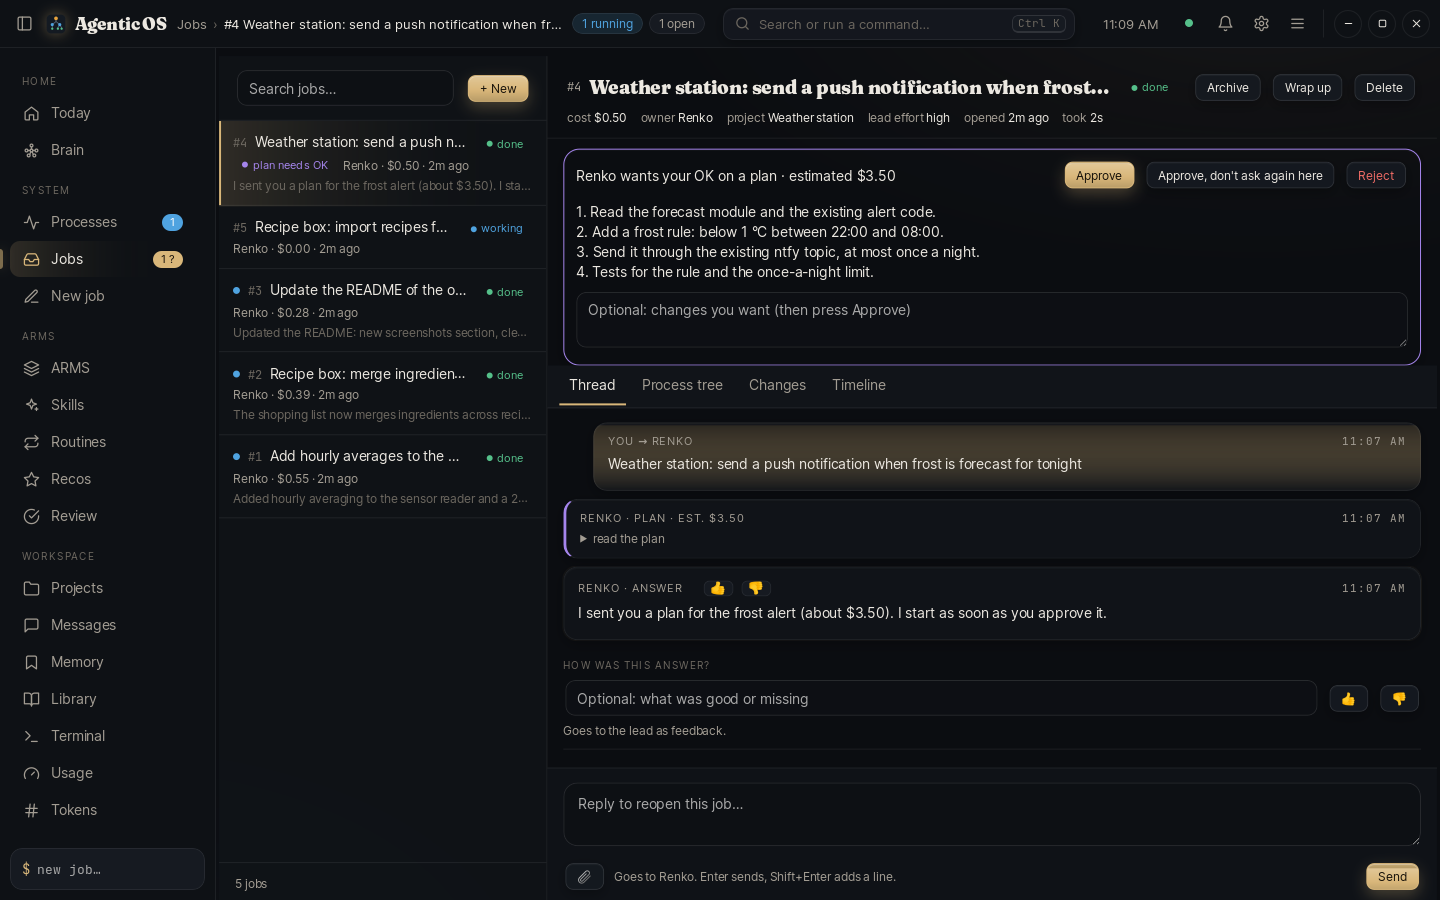
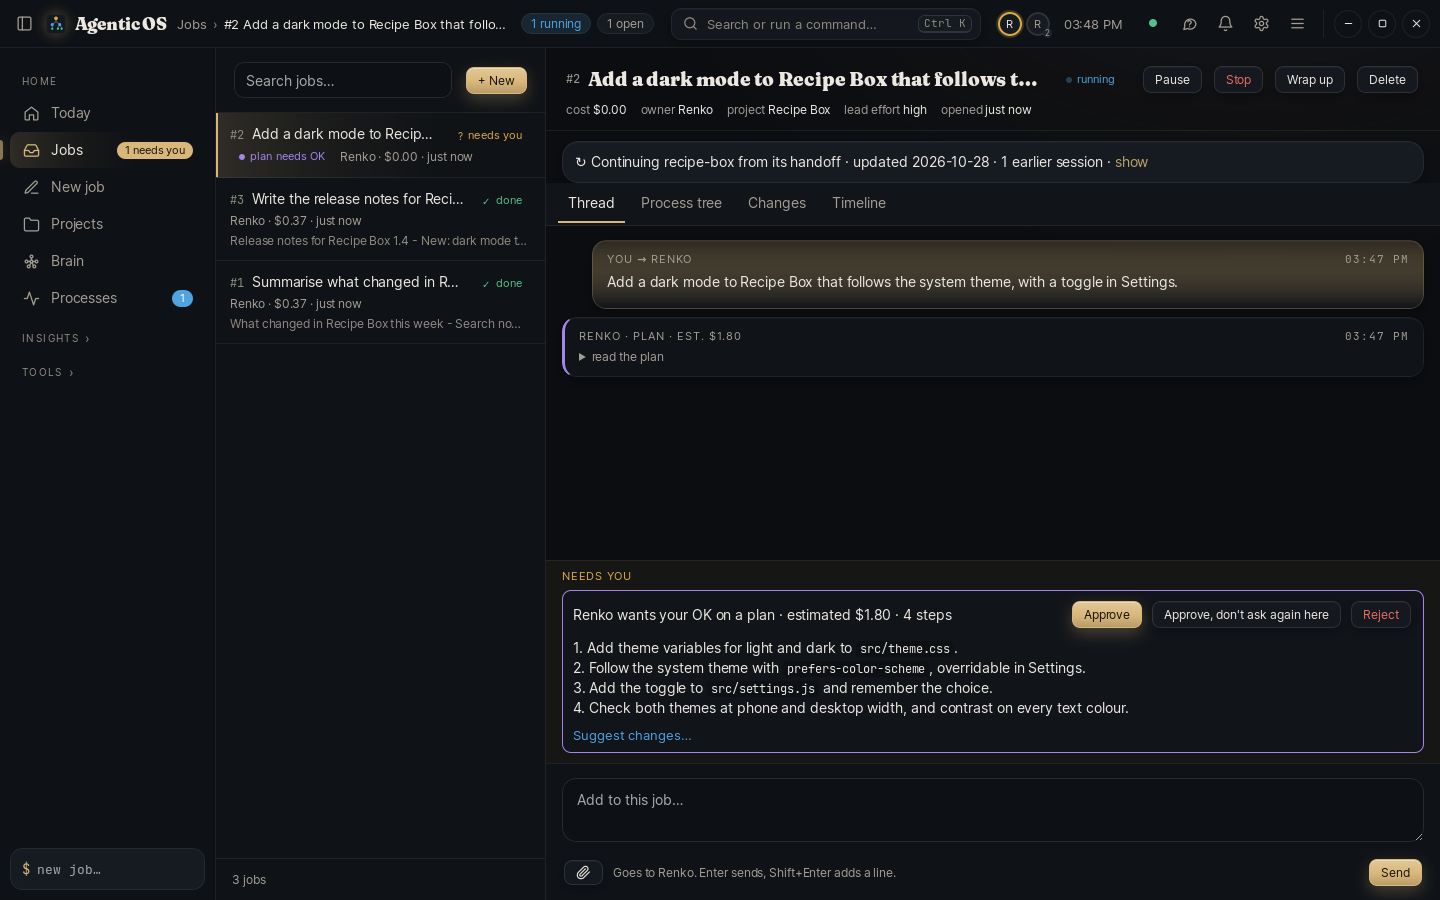
Updated README.

diff --git a/scripts/demo.js b/scripts/demo.js
@@ -37,9 +37,9 @@ out({ type: 'system', subtype: 'init', session_id: sid, model: 'claude-opus-5-5'
 const sleep = (ms) => new Promise((r) => setTimeout(r, ms));
 const say = (content) => out({ type: 'assistant', message: { id: 'msg_' + Date.now() + Math.random(), model: 'claude-opus-5-5', content, usage } });
 const ANSWERS = [
-  [/summari[sz]e|what changed/i, '**What changed in Recipe Box this week**\\n\\n- Search now matches ingredients as well as titles.\\n- The shopping list groups items by aisle.\\n- Two bugs fixed: duplicate tags on import, and a crash on empty recipes.\\n\\nNothing is waiting on you. *(Demo office: no model was called and nothing was spent.)*'],
-  [/dark mode/i, '**Dark mode is in.** Recipe Box now follows the system theme, with a toggle in Settings.\\n\\n- Files: \`src/theme.css\`, \`src/settings.js\`, \`src/App.js\`\\n- Checked: both themes at phone and desktop width, contrast AA on every text colour.\\n\\n*(Demo office: no model was called and nothing was spent.)*'],
   [/release notes/i, '**Release notes for Recipe Box 1.4**\\n\\n- New: dark mode that follows your system.\\n- Better: ingredient search, aisle-grouped shopping list.\\n- Fixed: duplicate tags on import; crash on empty recipes.\\n\\n*(Demo office: no model was called and nothing was spent.)*'],
+  [/dark mode/i, '**Dark mode is in.** Recipe Box now follows the system theme, with a toggle in Settings.\\n\\n- Files: \`src/theme.css\`, \`src/settings.js\`, \`src/App.js\`\\n- Checked: both themes at phone and desktop width, contrast AA on every text colour.\\n\\n*(Demo office: no model was called and nothing was spent.)*'],
+  [/summari[sz]e|what changed/i, '**What changed in Recipe Box this week**\\n\\n- Search now matches ingredients as well as titles.\\n- The shopping list groups items by aisle.\\n- Two bugs fixed: duplicate tags on import, and a crash on empty recipes.\\n\\nNothing is waiting on you. *(Demo office: no model was called and nothing was spent.)*'],
 ];
 let queue = Promise.resolve(), buf = '';
 process.stdin.on('data', (d) => {
@@ -66,7 +66,7 @@ async function turn(text) {
   const hit = ANSWERS.find(([re]) => re.test(text));
   const answer = hit ? hit[1] : 'Done. *(Demo office: no model was called and nothing was spent.)*';
   say([{ type: 'text', text: answer }]);
-  out({ type: 'result', subtype: 'success', is_error: false, result: answer, session_id: sid, total_cost_usd: 0, num_turns: 3, duration_ms: 3200, usage });
+  out({ type: 'result', subtype: 'success', is_error: false, result: answer, session_id: sid, total_cost_usd: Number(process.env.AGENTOS_DEMO_COST) || 0, num_turns: 3, duration_ms: 3200, usage });
 }
 setInterval(() => {}, 1 << 30);
 }
@@ -104,7 +104,18 @@ async function main() {
     fs.mkdirSync(path.join(work, 'Projects', name), { recursive: true });
     fs.writeFileSync(path.join(work, 'Projects', name, 'README.md'), readme);
   }
-  fs.copyFileSync(path.join(office, 'roster.example.json'), path.join(office, 'roster.json'));
+  // The demo's lead looks only at the demo's own projects, never at the user's real folders or notes.
+  const roster = JSON.parse(fs.readFileSync(path.join(office, 'roster.example.json'), 'utf8'));
+  for (const d of Object.values(roster.roles)) {
+    if (d.handoffs) d.handoffs.projectsRoot = path.join(work, 'Projects');
+    if (d.team) delete d.team.router;
+  }
+  fs.writeFileSync(path.join(office, 'roster.json'), JSON.stringify(roster, null, 2));
+  // A handoff per project, as if earlier sessions had saved them.
+  fs.mkdirSync(path.join(office, 'teams', 'personal', 'projects'), { recursive: true });
+  const today = new Date().toISOString().slice(0, 10);
+  fs.writeFileSync(path.join(office, 'teams', 'personal', 'projects', 'recipe-box.md'), `# recipe-box — handoff\n\nUpdated ${today} by Renko.\n\n## Current state\n\nReact + SQLite recipe manager. Ingredient search and the aisle-grouped shopping list shipped this week; 42 tests pass.\n\n## Open / next\n1. A theme that follows the system setting.\n2. Import recipes from a URL.\n3. Prepare the 1.4 release.\n\n## Session log\n\n### ${today} · search and shopping list\nIngredient search, aisle grouping, two import bugs fixed.\n`);
+  fs.writeFileSync(path.join(office, 'teams', 'personal', 'projects', 'trail-log.md'), `# trail-log — handoff\n\nUpdated ${today} by Renko.\n\n## Current state\n\nGPS hikes on a Leaflet map with elevation charts. GPX import works; the chart lags on tracks over 10k points.\n\n## Open / next\n1. Downsample long tracks before charting.\n2. Offline map tiles.\n\n## Session log\n\n### ${today} · GPX import\nImport, map view, elevation chart.\n`);
   fs.writeFileSync(path.join(office, 'projects.json'), JSON.stringify([
     { name: 'Recipe Box', path: path.join(work, 'Projects', 'recipe-box'), department: 'personal-lead', description: 'A small recipe manager (React + SQLite).', keywords: ['recipe', 'recipes'], verify: ['test -f README.md'] },
     { name: 'Trail Log', path: path.join(work, 'Projects', 'trail-log'), department: 'personal-lead', description: 'GPS hikes on a map.', keywords: ['trail', 'hike'] },
@@ -144,6 +155,9 @@ async function main() {
   await sleep(3000);
   const plan = '1. Add theme variables for light and dark to `src/theme.css`.\n2. Follow the system theme with `prefers-color-scheme`, overridable in Settings.\n' +
     '3. Add the toggle to `src/settings.js` and remember the choice.\n4. Check both themes at phone and desktop width, and contrast on every text colour.';
+  // What the office remembers about Recipe Box.
+  await call(port, T, 'POST', '/api/projects/Recipe%20Box/memory', { kind: 'instruction', text: 'Use pnpm, never npm, in this repository.' });
+  await call(port, T, 'POST', '/api/projects/Recipe%20Box/memory', { kind: 'instruction', text: 'Keep the bundle under 200 kB; check with pnpm build before saying done.' });
   // A lesson waiting for review on Today, as if an earlier job had gone wrong.
   await call(port, T, 'POST', '/api/lessons', { agentId: 'personal-lead', text: 'Check layout changes at phone width before reporting them as done.' });
   // The plan call waits for your decision; once you approve (or reject) it, the stand-in finishes the dark-mode job.

diff --git a/scripts/screenshots.js b/scripts/screenshots.js
@@ -1,0 +1,68 @@
+#!/usr/bin/env node
+'use strict';
+// Development command: regenerates the README screenshots in docs/screenshots/ from the demo office (made-up projects,
+// stand-in agents, nothing spent), in the same WebKitGTK engine as the window, on a virtual screen.
+// usage: node scripts/screenshots.js [--only name,name] [--out dir]      needs Xvfb and python3-gi with WebKit2 4.0
+const { spawn, spawnSync } = require('child_process');
+const fs = require('fs');
+const os = require('os');
+const path = require('path');
+
+const ROOT = path.join(__dirname, '..');
+const W = 1440, H = 900;
+const args = process.argv.slice(2);
+const opt = (k) => { const i = args.indexOf(k); return i >= 0 ? args[i + 1] : null; };
+const OUT = path.resolve(opt('--out') || path.join(ROOT, 'docs', 'screenshots'));
+const only = opt('--only') ? new Set(opt('--only').split(',')) : null;
+
+// Each shot: a name (the file) and the page code that sets it up. They run in order in one window.
+const find = (re) => `Object.values(S.tickets).find((x) => ${re}.test(x.title))`;
+const SHOTS = [
+  { name: 'today', wait: 14000, js: "document.getElementById('toasts').style.display = 'none'; setPref('setupHidden', '1'); setPref('theme', 'dark'); setLook('champagne'); openApp('today')" },
+  { name: 'job-plan', js: `const t = ${find('/dark mode/i')}; S.job = t.id; S.jtab = 'thread'; openApp('jobs')`, wait: 1500 },
+  { name: 'job-checks', js: `const t = ${find('/Summarise/i')}; S.job = t.id; S.jtab = 'thread'; S.jbodyKey = null; openApp('jobs'); setTimeout(() => { const b = document.querySelector('#jbody'); b.scrollTop = b.scrollHeight; }, 400)`, wait: 1500 },
+  { name: 'processes', js: "openApp('processes')", wait: 1200 },
+  { name: 'brain', js: "openApp('brain'); ACT.brainTab({ tab: 'knowledge' })", wait: 4500 },
+  { name: 'projects', js: "openApp('projects'); setTimeout(() => { const e = document.querySelector('.page'); if (e) e.scrollTop = 0; }, 900)", wait: 2200 },
+  { name: 'usage', js: "openApp('usage'); setTimeout(() => { const e = document.querySelector('.ostats'); if (e) e.closest('.card').scrollIntoView(); }, 2000)", wait: 2800 },
+  { name: 'lead-wizard', js: "setLook('graphite'); openApp('settings'); setTimeout(() => { $('#lw_purpose').value = 'Look after my home server: the Docker containers, nightly backups and the Raspberry Pi. Keep things running, explain what changed, and never expose a service to the internet.'; $('#lw_persona').value = 'Hale'; $('#lw_room').value = 'Homelab'; ACT.lwDraft({}); setTimeout(() => { const e = document.querySelector('.lwiz'); if (e) e.scrollIntoView(); }, 2500); }, 1500)", wait: 5500 },
+  { name: 'jobs-light', js: `S.lw = null; S.cfg = null; setLook('champagne'); setTheme('light'); const t = ${find('/release notes/i')}; S.job = t.id; S.jtab = 'thread'; openApp('jobs')`, wait: 1500 },
+];
+
+function main() {
+  for (const bin of ['Xvfb', 'python3']) if (spawnSync('which', [bin]).status !== 0) { console.error(`${bin} is needed.`); process.exit(1); }
+  const shots = SHOTS.filter((s) => !only || only.has(s.name));
+  const tmp = fs.mkdtempSync(path.join(os.tmpdir(), 'agentos-shots-'));
+  const demo = spawn(process.execPath, [path.join(__dirname, 'demo.js'), '--no-window'], { env: { ...process.env, AGENTOS_DEMO_COST: '0.37' }, stdio: ['ignore', 'pipe', 'inherit'] });
+  let buf = '', started = false;
+  const done = (code) => { try { demo.kill('SIGTERM'); } catch {} setTimeout(() => { fs.rmSync(tmp, { recursive: true, force: true }); process.exit(code); }, 1500); };
+  demo.stdout.on('data', (d) => {
+    buf += d;
+    const m = buf.match(/(http:\/\/127\.0\.0\.1:\d+\/__app\?t=\w+)/);
+    if (!m || started) return;
+    started = true;
+    let display = 90;
+    while (fs.existsSync(`/tmp/.X11-unix/X${display}`)) display++;
+    const x = spawn('Xvfb', [`:${display}`, '-screen', '0', `${W + 40}x${H + 40}x24`], { stdio: 'ignore' });
+    setTimeout(() => {
+      const steps = path.join(tmp, 'steps.json');
+      fs.writeFileSync(steps, JSON.stringify(shots));
+      const r = spawnSync('python3', [path.join(__dirname, 'ui-check-driver.py'), m[1], steps, tmp, String(W), String(H)],
+        { env: { ...process.env, DISPLAY: `:${display}` }, encoding: 'utf8', timeout: 300000 });
+      x.kill();
+      let bad = 0;
+      fs.mkdirSync(OUT, { recursive: true });
+      for (const l of (r.stdout || '').split('\n').filter((s) => s.startsWith('{'))) {
+        const j = JSON.parse(l);
+        if (j.problems.length) { bad++; console.log(`✕ ${j.step}: ${j.problems.join('; ')}`); continue; }
+        fs.copyFileSync(j.shot, path.join(OUT, `${j.step}.png`));
+        console.log(`✓ ${path.relative(ROOT, path.join(OUT, j.step + '.png'))}`);
+      }
+      if (!r.stdout) console.error((r.stderr || '').slice(-1500));
+      done(bad || !r.stdout ? 1 : 0);
+    }, 800);
+  });
+  demo.on('exit', () => { if (!started) { console.error('The demo office did not start.'); process.exit(1); } });
+}
+
+main();

diff --git a/README.md b/README.md
@@ -21,23 +21,39 @@ it's doing or what it costs. Agentic OS gives you a standing team instead:
   team library, and picks up a project where its last session ended.
 - **Work goes to the right place.** A dispatcher (or plain routing rules, for free) hands each job to the lead who owns
   it; leads hire specialists for parallel or long work.
-- **You stay in control.** Big jobs start with a plan and a cost estimate you approve; terminal commands and edits
-  outside a job's project ask first; nothing is ever committed or pushed for you.
+- **"Done" means checked.** The office runs each project's checks itself after the lead answers; only real exit codes
+  close a job, and a failure goes back to the lead with the output.
+- **You stay in control.** Big jobs start with a plan and a cost estimate you approve; terminal commands, web access
+  and edits outside a job's project follow rules you set; nothing is ever committed or pushed for you.
 - **It gets cheaper and better on its own.** Mechanical work goes through exact, free scripts instead of the model;
   the model and effort for each task are chosen by expected value; failed or reworked jobs turn into lessons.
 
 ## Features
 
-- **Jobs** with live progress, per-job cost, follow-ups, plans, questions and terminal-command approvals, notifications
-  and reminders when something needs you
+- **Jobs** with live progress, per-job cost, follow-ups, plans, questions with one-click answers, terminal-command
+  approvals, and reminders when something needs you
+- **Checks before done**: a project's checks (`npm test`, `make`…) run by the office after the lead answers; real exit
+  codes decide, failures go back to the lead, and the evidence stays on the job
+- **Recovery**: a job interrupted by a restart or a crash resumes with what already happened, so nothing is done
+  twice; a stuck agent is flagged; stopping a job stops everything it started
+- **Separate workspaces**: two jobs on the same git project each work in their own git worktree; you review the diff
+  and apply it, nothing is committed
+- **Project memory**: your instructions, decisions and known failures per project; each job gets only what is
+  relevant to it, not the whole history
+- **New team leads from a description**: say what the lead should look after; the office drafts its routing,
+  instructions and specialists for you to review
 - **Processes**: every agent as a process with model, effort, state, current job, activity and cost
 - **Brain**: everything the agents know (memories, libraries, skills, handoffs, projects) as one searchable graph,
   plus how jobs flow and what to improve
 - **Projects**: where each personal project stands, with one-click *Continue*
 - **Ask the office** (Ctrl+J): "what did Renko do yesterday?", "why did #37 cost $22?", answered from your own jobs,
   memories and libraries for under a cent
-- **Usage limits** respected automatically: work is held, resumed or scheduled around your plan's windows
+- **Cost per successful job**, per lead and per project, next to your plan's usage windows; work is held, resumed or
+  scheduled around the limits, with an optional daily spending cap
+- **Access controls**: web access on or off, folders agents may always edit, commands that never run or run without
+  asking, and lessons you review before agents use them
 - **Undo** for every file an agent changed, per job
+- **Three looks** (Champagne, Graphite, Midnight), each light and dark
 - **Self-tests**: an API check and a window check that run on a throwaway office and spend nothing, and an agent eval
   that checks the agents still follow the rules after their instructions change
 
@@ -81,7 +97,11 @@ Run `./agentos setup` again any time.
 - **Talk to it** in the job: Enter sends; ↑ in the empty box takes back a message the agent hasn't picked up yet.
   The strip under the conversation shows who is working on what and what it has cost so far.
 - **When an agent needs you** (a question, a plan, a command to run) the job says *needs you*, you get a notification,
-  and reminders follow if it waits. Plans under an amount you choose can be approved automatically.
+  and reminders follow if it waits. Questions come with one-click answers (keys 1–5). Plans under an amount you choose
+  can be approved automatically. With a Telegram bot linked, all of it reaches your phone too.
+- **Give a project checks** in Teams & roles → Projects (e.g. `npm test ;; npm run lint`), or per job under *Checks and
+  workspace*: a job is done only when they pass.
+- **Add a team lead** in Teams & roles → *New team lead*: describe what it should look after, review the draft, create.
 - **Brain** (`B`), **Today** (`D`, the start page), **Projects** (`O`), **Skills**, and **Preferences** (Ctrl+,).
 - **In the background**: close the window while jobs run and it waits in the tray.
 - **What a job cost and why**: `node scripts/job-cost.js 28`.
@@ -110,14 +130,16 @@ undo), redirects mechanical shell commands to scripts, and delivers mail between
 
 | | |
 |---|---|
-| ![A job waiting for plan approval](docs/screenshots/job-plan.png) | ![The brain's knowledge map](docs/screenshots/brain.png) |
-| **A job that needs you.** The lead proposes a plan with a cost estimate; approve, change or reject it in place. | **Brain.** Agents, memories, library pages, skills, handoffs and projects as one graph you can drag, search and scrub through time. |
-| ![The process tree](docs/screenshots/processes.png) | ![Projects and their handoffs](docs/screenshots/projects.png) |
-| **Processes.** Every agent as a process: model and effort, state, current job, activity and cost. | **Projects.** Where each personal project stands, from its handoff; Continue starts a job that picks up there. |
+| ![A job waiting for plan approval](docs/screenshots/job-plan.png) | ![A finished job whose checks passed](docs/screenshots/job-checks.png) |
+| **A job that needs you.** The lead proposes a plan with a cost estimate; approve, change or reject it in place. | **Checked, not just claimed.** The office ran the project's checks after the answer; only exit codes close the job. |
+| ![Projects, their handoffs and what the office remembers](docs/screenshots/projects.png) | ![Cost per successful job](docs/screenshots/usage.png) |
+| **Projects.** Where each project stands, from its handoff, and what the office remembers about it. | **Cost per successful job**, per lead and per project, next to office spend. |
+| ![Drafting a new team lead](docs/screenshots/lead-wizard.png) | ![The brain's knowledge map](docs/screenshots/brain.png) |
+| **A new team lead** drafted from a plain description, shown here in the Graphite look. | **Brain.** Agents, memories, library pages, skills, handoffs and projects as one graph you can drag, search and scrub through time. |
+| ![The process tree](docs/screenshots/processes.png) | ![A finished job in the light theme](docs/screenshots/jobs-light.png) |
+| **Processes.** Every agent as a process: model and effort, state, current job, activity and cost. | **Light or dark**, following the system or picked in Preferences. |
 
-The light theme follows the system or can be picked in Preferences:
-
-![A finished job in the light theme](docs/screenshots/jobs-light.png)
+All screenshots come from the demo office (`npm run screenshots` regenerates them).
 
 ## Privacy and safety
 
@@ -125,8 +147,9 @@ The light theme follows the system or can be picked in Preferences:
   only by you).
 - Your jobs, conversations, memories and configuration never leave your computer except as prompts to Claude through
   your own Claude Code login.
-- Agents edit only inside the job's project (other folders ask first), run terminal commands only as you allow, and
-  never commit or push. Every change can be undone per job.
+- Agents edit only inside the job's project (other folders ask first), run terminal commands only as you allow, reach
+  the web only if you let them, and never commit or push. Every change can be undone per job, and stopping a job
+  stops every process it started.
 
 See [SECURITY.md](SECURITY.md) for the full picture and how to report a problem.
 
@@ -149,6 +172,7 @@ npm install        # development tools only (ESLint)
 npm test           # syntax of every file + the API check on a throwaway office (seconds, nothing spent)
 npm run lint
 npm run test:ui    # clicks through the whole window on a virtual screen (about 45 s, needs Xvfb)
+npm run screenshots  # regenerates docs/screenshots from the demo office (needs Xvfb)
 ```
 
 See [CONTRIBUTING.md](CONTRIBUTING.md) for the layout, conventions and how to send a change, and

diff --git a/docs/architecture.md b/docs/architecture.md
@@ -103,7 +103,7 @@ sequenceDiagram
 | `lib/stop.sh` | `./agentos stop`: stops this office's server, refusing while agents work unless `-f` |
 | `public/os.html`, `public/ui/` | the window's page: styles in `os.css`, code in `os/*.js` (classic scripts sharing one scope, loaded in order) |
 | `app/agentos-window.py` | the native window, tray and notifications |
-| `scripts/` | office scripts agents call (`manifest.json`), plus development commands: `setup`, `demo`, `check-syntax`, `api-check`, `ui-check`, `agent-eval` |
+| `scripts/` | office scripts agents call (`manifest.json`), plus development commands: `setup`, `demo`, `screenshots`, `check-syntax`, `api-check`, `ui-check`, `agent-eval` |
 | `teams/<team>/` | per team, ignored by git: library pages, project handoffs, skills, and team-only scripts |
 | `data/` | runtime state, ignored by git: agents, jobs, events, memory, usage, backups, the app token |
 | `roster.json`, `projects.json` | your team and projects, ignored by git; created by `./agentos setup` from the `.example` files |

diff --git a/CHANGELOG.md b/CHANGELOG.md
@@ -37,6 +37,8 @@ and versions follow [Semantic Versioning](https://semver.org/).
 - Project memory: instructions, decisions, known failures and job outcomes per project; each job gets only what is
   relevant (`lib/project-memory.js`, tools `remember_for_project` and `recall_project`).
 - Cost per successful job in Usage, per lead and per project (`lib/outcomes.js`).
+- `npm run screenshots` regenerates the README screenshots from the demo office; the demo no longer reads your real
+  project folders or notes, and seeds handoffs and project memory.
 - Looks: Champagne (the default), Graphite (flat, neutral greys, system blue) and Midnight (navy, teal), each in
   light and dark (Preferences → Appearance → Look, `public/ui/themes.css`).
 - Agent answers render *italics*.
